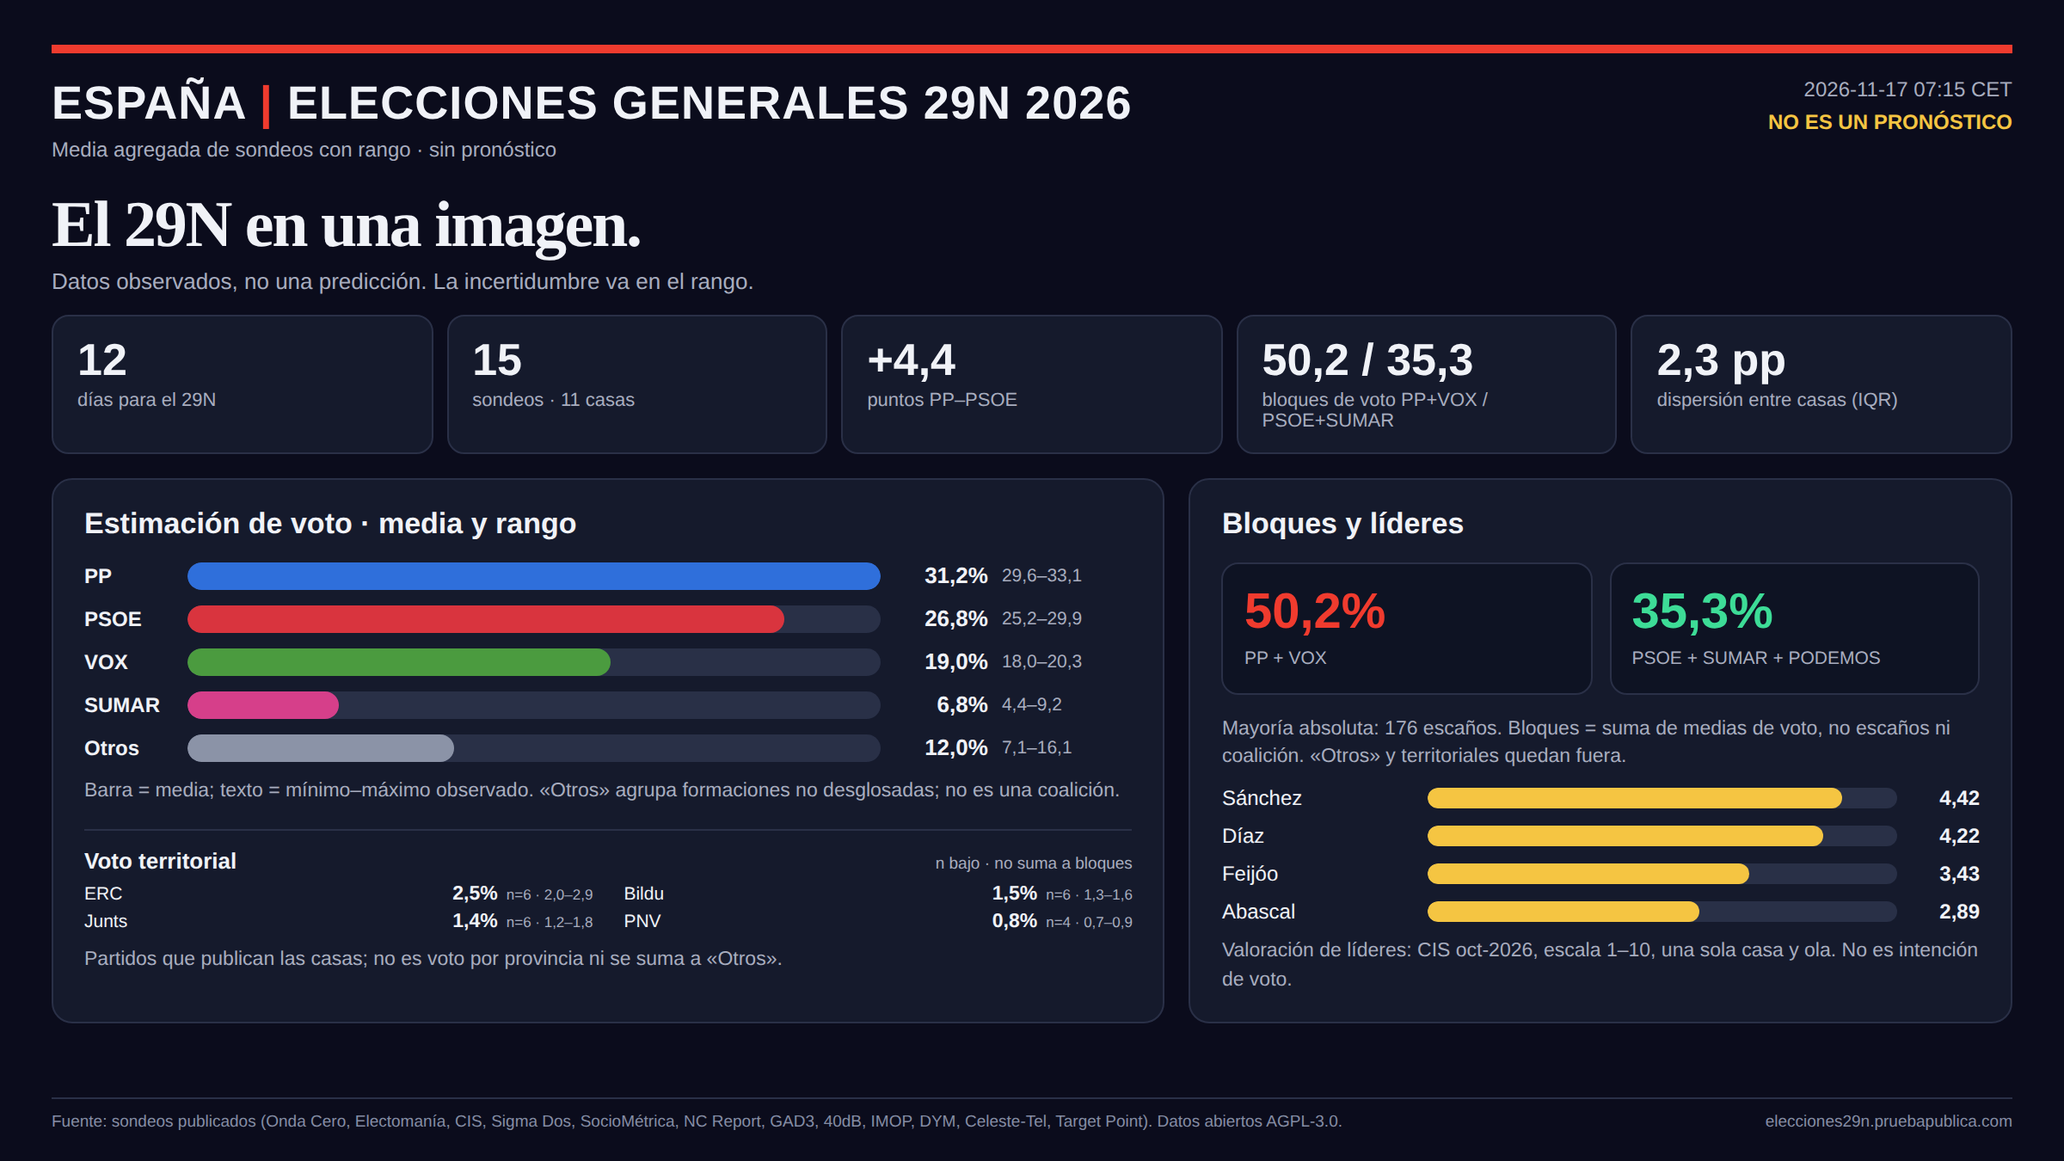
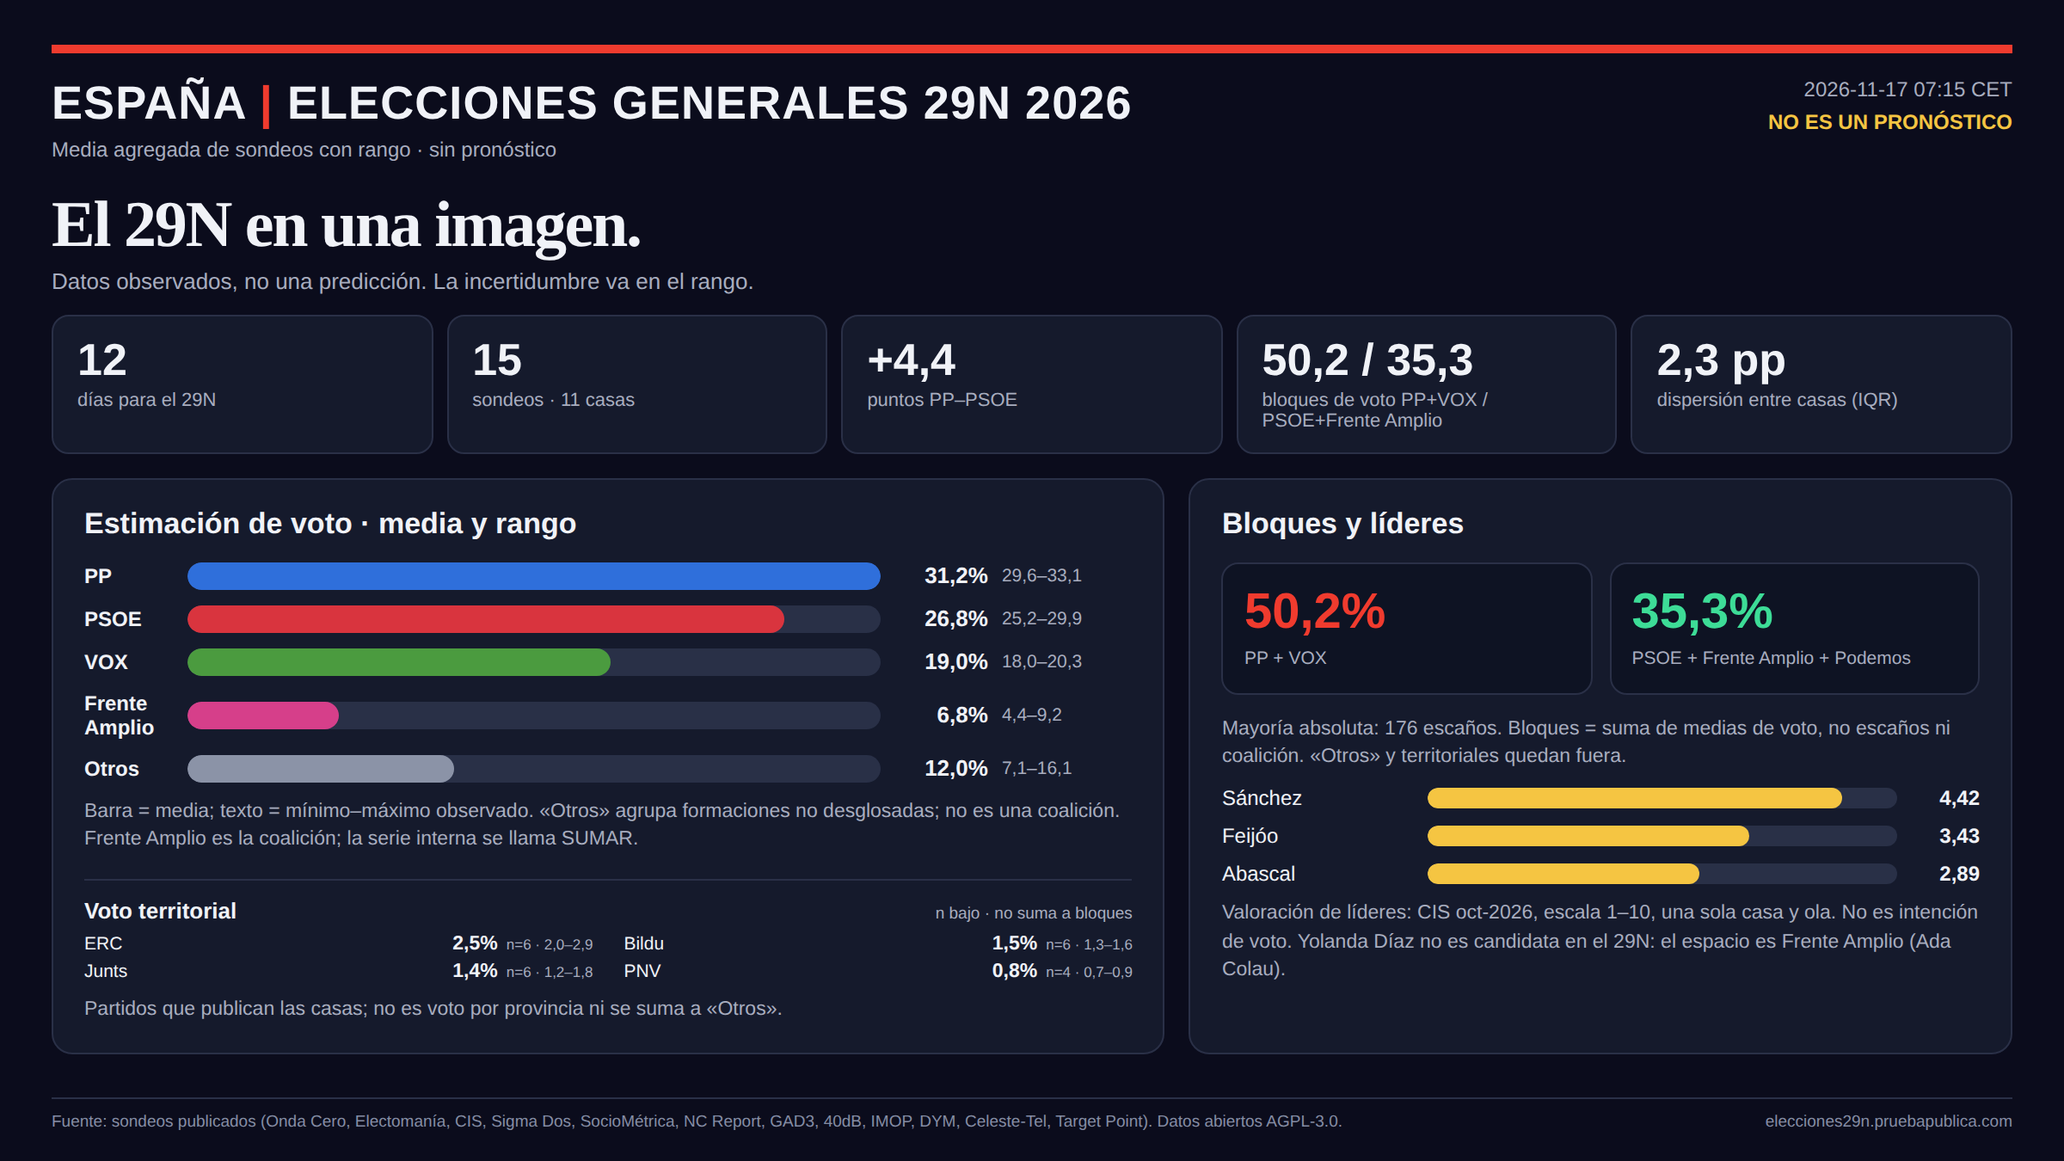
datos: Frente Amplio y exclusión de Díaz no candidata

diff --git a/web/lideres.html b/web/lideres.html
@@ -8,11 +8,11 @@
 <meta charset="utf-8">
 <meta name="viewport" content="width=device-width, initial-scale=1">
 <title>Valoración de líderes · CIS octubre 2026</title>
-<meta name="description" content="Valoración 1–10 de Pedro Sánchez, Yolanda Díaz, Alberto Núñez Feijóo y Santiago Abascal según el CIS de octubre de 2026. Una sola casa y una sola ola.">
+<meta name="description" content="Valoración 1–10 de Pedro Sánchez, Alberto Núñez Feijóo y Santiago Abascal según el CIS de octubre de 2026. Yolanda Díaz no es candidata en el 29N; el espacio es Frente Amplio (Ada Colau). Una sola casa y una sola ola.">
 <link rel="canonical" href="https://elecciones29n.pruebapublica.com/lideres.html">
 
 <meta name="robots" content="index,follow,max-image-preview:large">
-<link rel="stylesheet" href="/css/main.css?v=202611161515">
+<link rel="stylesheet" href="/css/main.css?v=202611171347">
 <script>(function(){try{var t=localStorage.getItem("e29n-theme");if(t!=="light"&&t!=="dark"){t=window.matchMedia("(prefers-color-scheme: light)").matches?"light":"dark";}document.documentElement.dataset.theme=t;}catch(e){}})();</script>
 <script>
 document.addEventListener('DOMContentLoaded', function(){
@@ -49,7 +49,7 @@ document.addEventListener('DOMContentLoaded', function(){
 <meta property="og:site_name" content="elecciones29n-osint">
 <meta property="og:locale" content="es_ES">
 <meta property="og:title" content="Valoración de líderes · CIS octubre 2026">
-<meta property="og:description" content="Valoración 1–10 de Pedro Sánchez, Yolanda Díaz, Alberto Núñez Feijóo y Santiago Abascal según el CIS de octubre de 2026. Una sola casa y una sola ola.">
+<meta property="og:description" content="Valoración 1–10 de Pedro Sánchez, Alberto Núñez Feijóo y Santiago Abascal según el CIS de octubre de 2026. Yolanda Díaz no es candidata en el 29N; el espacio es Frente Amplio (Ada Colau). Una sola casa y una sola ola.">
 <meta property="og:url" content="https://elecciones29n.pruebapublica.com/lideres.html">
 
 <meta property="og:image" content="https://elecciones29n.pruebapublica.com/og.png">
@@ -58,7 +58,7 @@ document.addEventListener('DOMContentLoaded', function(){
 <meta property="og:image:height" content="630">
 <meta name="twitter:card" content="summary_large_image">
 <meta name="twitter:title" content="Valoración de líderes · CIS octubre 2026">
-<meta name="twitter:description" content="Valoración 1–10 de Pedro Sánchez, Yolanda Díaz, Alberto Núñez Feijóo y Santiago Abascal según el CIS de octubre de 2026. Una sola casa y una sola ola.">
+<meta name="twitter:description" content="Valoración 1–10 de Pedro Sánchez, Alberto Núñez Feijóo y Santiago Abascal según el CIS de octubre de 2026. Yolanda Díaz no es candidata en el 29N; el espacio es Frente Amplio (Ada Colau). Una sola casa y una sola ola.">
 <meta name="twitter:image" content="https://elecciones29n.pruebapublica.com/og.png">
 <meta name="twitter:image:alt" content="Valoración de líderes · CIS octubre 2026">
 <link rel="alternate" type="application/json" href="/data/latest.json" title="Datos agregados (JSON)">
@@ -132,14 +132,12 @@ document.addEventListener('DOMContentLoaded', function(){
 
   
   <div class="card">
-    <div class="cardhead"><h2>CIS · octubre 2026</h2><span class="hint">n≈5.000 · cuatro líderes</span></div>
+    <div class="cardhead"><h2>CIS · octubre 2026</h2><span class="hint">n≈5.000 · tres líderes · Díaz no candidata</span></div>
     <div class="tablewrap"><table>
       <thead><tr><th>Líder</th><th>Partido</th><th>Media</th><th>Mediana</th><th>n válido</th></tr></thead>
       <tbody>
       
         <tr><td><strong>Pedro Sánchez</strong></td><td>PSOE</td><td class="num">4,42</td><td class="num">4</td><td class="num">4.975</td></tr>
-      
-        <tr><td><strong>Yolanda Díaz</strong></td><td>SUMAR</td><td class="num">4,22</td><td class="num">4</td><td class="num">4.817</td></tr>
       
         <tr><td><strong>Alberto Núñez Feijóo</strong></td><td>PP</td><td class="num">3,43</td><td class="num">3</td><td class="num">4.845</td></tr>
       
@@ -188,46 +186,6 @@ document.addEventListener('DOMContentLoaded', function(){
         
           
           <tr><td class="num">10</td><td class="num">9,55%</td><td style="width:55%"><span class="prog"><i style="width:9.55%"></i></span></td></tr>
-        
-        </tbody>
-      </table></div>
-    </div>
-    
-    <div style="margin:18px 0 22px">
-      <div class="cardhead" style="margin:0 0 8px"><h3 style="margin:0">Yolanda Díaz</h3><span class="hint">SUMAR · media 4,22 · n 4.817</span></div>
-      <div class="tablewrap"><table>
-        <thead><tr><th>Nota</th><th>%</th><th></th></tr></thead>
-        <tbody>
-        
-          
-          <tr><td class="num">1</td><td class="num">31,83%</td><td style="width:55%"><span class="prog"><i style="width:31.83%"></i></span></td></tr>
-        
-          
-          <tr><td class="num">2</td><td class="num">6,55%</td><td style="width:55%"><span class="prog"><i style="width:6.55%"></i></span></td></tr>
-        
-          
-          <tr><td class="num">3</td><td class="num">6,15%</td><td style="width:55%"><span class="prog"><i style="width:6.15%"></i></span></td></tr>
-        
-          
-          <tr><td class="num">4</td><td class="num">7,72%</td><td style="width:55%"><span class="prog"><i style="width:7.72%"></i></span></td></tr>
-        
-          
-          <tr><td class="num">5</td><td class="num">11,00%</td><td style="width:55%"><span class="prog"><i style="width:11.0%"></i></span></td></tr>
-        
-          
-          <tr><td class="num">6</td><td class="num">9,69%</td><td style="width:55%"><span class="prog"><i style="width:9.69%"></i></span></td></tr>
-        
-          
-          <tr><td class="num">7</td><td class="num">9,25%</td><td style="width:55%"><span class="prog"><i style="width:9.25%"></i></span></td></tr>
-        
-          
-          <tr><td class="num">8</td><td class="num">8,03%</td><td style="width:55%"><span class="prog"><i style="width:8.03%"></i></span></td></tr>
-        
-          
-          <tr><td class="num">9</td><td class="num">4,54%</td><td style="width:55%"><span class="prog"><i style="width:4.54%"></i></span></td></tr>
-        
-          
-          <tr><td class="num">10</td><td class="num">3,99%</td><td style="width:55%"><span class="prog"><i style="width:3.99%"></i></span></td></tr>
         
         </tbody>
       </table></div>
@@ -322,7 +280,7 @@ document.addEventListener('DOMContentLoaded', function(){
       <li><strong>Qué no mide:</strong> intención de voto, probabilidad de victoria, aprobación de gobierno ni popularidad comparable entre encuestadoras.</li>
       <li><strong>Una casa:</strong> CIS. No se promedia con 40dB, GAD3, Sigma Dos ni otras casas.</li>
       <li><strong>Una ola:</strong> octubre de 2026. No hay tendencia hasta tener otra ola comparable.</li>
-      <li><strong>Cuatro líderes:</strong> los incluidos en la pregunta 20a del CIS; no es una lista completa de candidaturas.</li>
+      <li><strong>Tres líderes:</strong> los incluidos en la pregunta 20a del CIS; no es una lista completa de candidaturas. Yolanda Díaz aparece en el CIS como líder de Sumar, pero no es candidata en el 29N; el espacio es Frente Amplio (Ada Colau).</li>
     </ul>
     <p class="muted small">Fuente: <a href="https://www.cis.es/es/w/avance-de-resultados-del-estudio-3582-barómetro-de-octubre-2026-" rel="noopener" target="_blank">CIS · Estudio 3582, barómetro de octubre de 2026</a>. Pregunta: «¿Qué valoración le merece cada uno/a? Puntúelos/as de 1 a 10.».</p>
   </div>
@@ -409,7 +367,7 @@ document.addEventListener('DOMContentLoaded', function(){
   <div class="container">
     <p>elecciones29n-osint · Media agregada de sondeos publicados para las elecciones generales del 29 de noviembre de 2026.</p>
     <p>Una media no es un pronóstico. <a href="/caveat.html">Qué no dice este sitio</a>.</p>
-    <p>Datos abiertos · <a href="/novedades.html">Novedades</a> · <a href="/cambios.xml">RSS de cambios</a> · <a href="/embed/medias.html">Embed</a> · <a href="/incrustar.html">Guía de uso</a> · <a href="/aviso.html">Avisos</a> · <a href="/prensa.html">Prensa</a> · <a href="/apoyo.html">Apoyo</a> · <a href="/sobre-mi.html">Sobre mí</a> · <a href="/privacidad.html">Privacidad</a> · <a href="/mayorias.html">Mayorías</a> · <a href="/postelectoral.html">Post-electoral</a> · <a href="/competitivas.html">Competitivas</a> · <a href="/en.html">English</a> · Hecho por Miguel Castillo · software v0.11.2 · 2026-11-16.</p>
+    <p>Datos abiertos · <a href="/novedades.html">Novedades</a> · <a href="/cambios.xml">RSS de cambios</a> · <a href="/embed/medias.html">Embed</a> · <a href="/incrustar.html">Guía de uso</a> · <a href="/aviso.html">Avisos</a> · <a href="/prensa.html">Prensa</a> · <a href="/apoyo.html">Apoyo</a> · <a href="/sobre-mi.html">Sobre mí</a> · <a href="/privacidad.html">Privacidad</a> · <a href="/mayorias.html">Mayorías</a> · <a href="/postelectoral.html">Post-electoral</a> · <a href="/competitivas.html">Competitivas</a> · <a href="/en.html">English</a> · Hecho por Miguel Castillo · software v0.11.2 · 2026-11-17.</p>
     <p class="eco">Ecosistema:
       <a href="https://www.pruebapublica.com/?utm_source=elecciones29n&utm_medium=footer">Prueba Pública</a> ·
       <a href="https://analisis.pruebapublica.com/?utm_source=elecciones29n&utm_medium=footer">Blog de análisis</a> ·
@@ -480,11 +438,11 @@ document.addEventListener('DOMContentLoaded', function(){
 })();
 </script>
 
-<div class="swupdate" id="swupdate" data-build="202611161515" hidden>
+<div class="swupdate" id="swupdate" data-build="202611171347" hidden>
   <span><strong>Nueva versión disponible.</strong> Recarga para ver los últimos datos.</span>
   <button id="swupdate-btn" type="button">Recargar</button>
   <button id="swupdate-close" type="button" aria-label="Cerrar aviso"
-    onclick="var b=document.getElementById('swupdate');if(b){b.hidden=true;}try{sessionStorage.setItem('e29n_sw_hidden','202611161515');}catch(e){}">×</button>
+    onclick="var b=document.getElementById('swupdate');if(b){b.hidden=true;}try{sessionStorage.setItem('e29n_sw_hidden','202611171347');}catch(e){}">×</button>
 </div>
 <script>
 if ('serviceWorker' in navigator) {
@@ -513,7 +471,7 @@ if ('serviceWorker' in navigator) {
       userClicked = true;
       if (reg && reg.waiting) reg.waiting.postMessage({type: 'SKIP_WAITING'});
     });
-    navigator.serviceWorker.register('/sw.js?v=202611161515', {updateViaCache: 'none'}).then(function(r){
+    navigator.serviceWorker.register('/sw.js?v=202611171347', {updateViaCache: 'none'}).then(function(r){
       reg = r;
       if (r.waiting && navigator.serviceWorker.controller) show();
       r.addEventListener('updatefound', function(){

diff --git a/web/robustez.html b/web/robustez.html
@@ -14,7 +14,7 @@
 <link rel="canonical" href="https://elecciones29n.pruebapublica.com/robustez.html">
 <link rel="alternate" hreflang="es" href="https://elecciones29n.pruebapublica.com/robustez.html"><link rel="alternate" hreflang="en" href="https://elecciones29n.pruebapublica.com/en/robustness.html">
 <meta name="robots" content="index,follow,max-image-preview:large">
-<link rel="stylesheet" href="/css/main.css?v=202611170715">
+<link rel="stylesheet" href="/css/main.css?v=202611171347">
 <script>(function(){try{var t=localStorage.getItem("e29n-theme");if(t!=="light"&&t!=="dark"){t=window.matchMedia("(prefers-color-scheme: light)").matches?"light":"dark";}document.documentElement.dataset.theme=t;}catch(e){}})();</script>
 <script>
 document.addEventListener('DOMContentLoaded', function(){
@@ -732,11 +732,11 @@ document.addEventListener('DOMContentLoaded', function(){
 })();
 </script>
 
-<div class="swupdate" id="swupdate" data-build="202611170715" hidden>
+<div class="swupdate" id="swupdate" data-build="202611171347" hidden>
   <span><strong>Nueva versión disponible.</strong> Recarga para ver los últimos datos.</span>
   <button id="swupdate-btn" type="button">Recargar</button>
   <button id="swupdate-close" type="button" aria-label="Cerrar aviso"
-    onclick="var b=document.getElementById('swupdate');if(b){b.hidden=true;}try{sessionStorage.setItem('e29n_sw_hidden','202611170715');}catch(e){}">×</button>
+    onclick="var b=document.getElementById('swupdate');if(b){b.hidden=true;}try{sessionStorage.setItem('e29n_sw_hidden','202611171347');}catch(e){}">×</button>
 </div>
 <script>
 if ('serviceWorker' in navigator) {
@@ -765,7 +765,7 @@ if ('serviceWorker' in navigator) {
       userClicked = true;
       if (reg && reg.waiting) reg.waiting.postMessage({type: 'SKIP_WAITING'});
     });
-    navigator.serviceWorker.register('/sw.js?v=202611170715', {updateViaCache: 'none'}).then(function(r){
+    navigator.serviceWorker.register('/sw.js?v=202611171347', {updateViaCache: 'none'}).then(function(r){
       reg = r;
       if (r.waiting && navigator.serviceWorker.controller) show();
       r.addEventListener('updatefound', function(){

diff --git a/gen/gen_infografia_29n.py b/gen/gen_infografia_29n.py
@@ -27,16 +27,17 @@ def main():
     maxmean=max((by[x]["mean"] for x in main_parties),default=40)
     bars=""
     colors={"PP":"#2f6fdb","PSOE":"#d9343e","VOX":"#4b9b3f","SUMAR":"#d63f8a","Otros":"#8b93a7"}
+    display={"SUMAR":"Frente Amplio"}
     for x in main_parties:
         p=by[x]; w=float(p["mean"])/maxmean*100
-        bars+=f'<div class="barrow"><span class="pl">{x}</span><div class="track"><i style="width:{w:.1f}%;background:{colors.get(x,"#77a")}"></i></div><b>{fmt(p["mean"])}%</b><small>{fmt(p["min"])}–{fmt(p["max"])}</small></div>'
+        bars+=f'<div class="barrow"><span class="pl">{display.get(x,x)}</span><div class="track"><i style="width:{w:.1f}%;background:{colors.get(x,"#77a")}"></i></div><b>{fmt(p["mean"])}%</b><small>{fmt(p["min"])}–{fmt(p["max"])}</small></div>'
     terrrows=""
     for p in terr:
         terrrows+=f'<div class="terrow"><span>{tlabel.get(p["party"],p["party"])}</span><b>{fmt(p.get("mean"))}%</b><small>n={p.get("n","—")} · {fmt(p.get("min"))}–{fmt(p.get("max"))}</small></div>'
     leadrows=""
-    for l in leaders[:4]:
+    for l in [x for x in leaders if x.get("party") != "SUMAR"][:4]:
         w=float(l["mean"])/5*100
-        leadrows+=f'<div class="leadrow"><span>{l["name"].replace("Alberto Núñez ","").replace("Pedro ","").replace("Yolanda ","").replace("Santiago ","")}</span><div class="track2"><i style="width:{w:.1f}%"></i></div><b>{fmt(l["mean"],2)}</b></div>'
+        leadrows+=f'<div class="leadrow"><span>{l["name"].replace("Alberto Núñez ","").replace("Pedro ","").replace("Santiago ","")}</span><div class="track2"><i style="width:{w:.1f}%"></i></div><b>{fmt(l["mean"],2)}</b></div>'
     gap=d.get("gap_pp_psoe"); days=d.get("days_to_election")
     html=f'''<!doctype html><html><head><meta charset="utf-8"><style>
 *{{box-sizing:border-box}} body{{margin:0;background:#0b0c1c;color:#f0f2f7;font-family:Arial,Helvetica,sans-serif}}
@@ -55,8 +56,8 @@ h1{{font-family:Georgia,serif;font-size:38px;line-height:1.02;margin:18px 0 5px;
 </style></head><body><div class="page">
 <div class="top"><div><div class="brand">ESPAÑA <span>|</span> ELECCIONES GENERALES 29N 2026</div><div class="sub">Media agregada de sondeos con rango · sin pronóstico</div></div><div class="right">{d.get("updated_at","")}<b>NO ES UN PRONÓSTICO</b></div></div>
 <h1>El 29N en una imagen.</h1><p class="lead">Datos observados, no una predicción. La incertidumbre va en el rango.</p>
-<div class="kpis"><div class="kpi"><b>{days if days is not None else "—"}</b><span>días para el 29N</span></div><div class="kpi"><b>{d.get("n_polls","—")}</b><span>sondeos · {h.get("n_pollsters","—")} casas</span></div><div class="kpi"><b>{("+"+fmt(gap)) if gap is not None else "—"}</b><span>puntos PP–PSOE</span></div><div class="kpi"><b>{fmt(blocks.get("right"))} / {fmt(blocks.get("left"))}</b><span>bloques de voto PP+VOX / PSOE+SUMAR</span></div><div class="kpi"><b>{fmt(h.get("dispersion_iqr"))} pp</b><span>dispersión entre casas (IQR)</span></div></div>
-<div class="grid"><div class="card"><h2>Estimación de voto · media y rango</h2>{bars}<p>Barra = media; texto = mínimo–máximo observado. «Otros» agrupa formaciones no desglosadas; no es una coalición.</p><div class="terr"><div class="terrhead"><h3>Voto territorial</h3><span>n bajo · no suma a bloques</span></div><div class="terrgrid">{terrrows}</div><p class="note">Partidos que publican las casas; no es voto por provincia ni se suma a «Otros».</p></div></div><div class="card"><h2>Bloques y líderes</h2><div class="blockrow"><div class="bl"><b>{fmt(blocks.get("right"))}%</b><span>PP + VOX</span></div><div class="bl"><b>{fmt(blocks.get("left"))}%</b><span>PSOE + SUMAR + PODEMOS</span></div></div><p style="margin:0 0 8px">Mayoría absoluta: 176 escaños. Bloques = suma de medias de voto, no escaños ni coalición. «Otros» y territoriales quedan fuera.</p>{leadrows}<p class="note">Valoración de líderes: CIS oct-2026, escala 1–10, una sola casa y ola. No es intención de voto.</p></div></div>
+<div class="kpis"><div class="kpi"><b>{days if days is not None else "—"}</b><span>días para el 29N</span></div><div class="kpi"><b>{d.get("n_polls","—")}</b><span>sondeos · {h.get("n_pollsters","—")} casas</span></div><div class="kpi"><b>{("+"+fmt(gap)) if gap is not None else "—"}</b><span>puntos PP–PSOE</span></div><div class="kpi"><b>{fmt(blocks.get("right"))} / {fmt(blocks.get("left"))}</b><span>bloques de voto PP+VOX / PSOE+Frente Amplio</span></div><div class="kpi"><b>{fmt(h.get("dispersion_iqr"))} pp</b><span>dispersión entre casas (IQR)</span></div></div>
+<div class="grid"><div class="card"><h2>Estimación de voto · media y rango</h2>{bars}<p>Barra = media; texto = mínimo–máximo observado. «Otros» agrupa formaciones no desglosadas; no es una coalición. Frente Amplio es la coalición; la serie interna se llama SUMAR.</p><div class="terr"><div class="terrhead"><h3>Voto territorial</h3><span>n bajo · no suma a bloques</span></div><div class="terrgrid">{terrrows}</div><p class="note">Partidos que publican las casas; no es voto por provincia ni se suma a «Otros».</p></div></div><div class="card"><h2>Bloques y líderes</h2><div class="blockrow"><div class="bl"><b>{fmt(blocks.get("right"))}%</b><span>PP + VOX</span></div><div class="bl"><b>{fmt(blocks.get("left"))}%</b><span>PSOE + Frente Amplio + Podemos</span></div></div><p style="margin:0 0 8px">Mayoría absoluta: 176 escaños. Bloques = suma de medias de voto, no escaños ni coalición. «Otros» y territoriales quedan fuera.</p>{leadrows}<p class="note">Valoración de líderes: CIS oct-2026, escala 1–10, una sola casa y ola. No es intención de voto. Yolanda Díaz no es candidata en el 29N: el espacio es Frente Amplio (Ada Colau).</p></div></div>
 <div class="foot"><span>Fuente: sondeos publicados (Onda Cero, Electomanía, CIS, Sigma Dos, SocioMétrica, NC Report, GAD3, 40dB, IMOP, DYM, Celeste-Tel, Target Point). Datos abiertos AGPL-3.0.</span><span>elecciones29n.pruebapublica.com</span></div></div></body></html>'''
     with sync_playwright() as pw:
         b=pw.chromium.launch(executable_path="/home/deploy/.cache/ms-playwright/chromium-1234/chrome-linux64/chrome", args=["--no-sandbox"]); page=b.new_page(viewport={"width":1200,"height":675},device_scale_factor=2); page.set_content(html,wait_until="load"); page.screenshot(path=a.out,type="png"); b.close()
